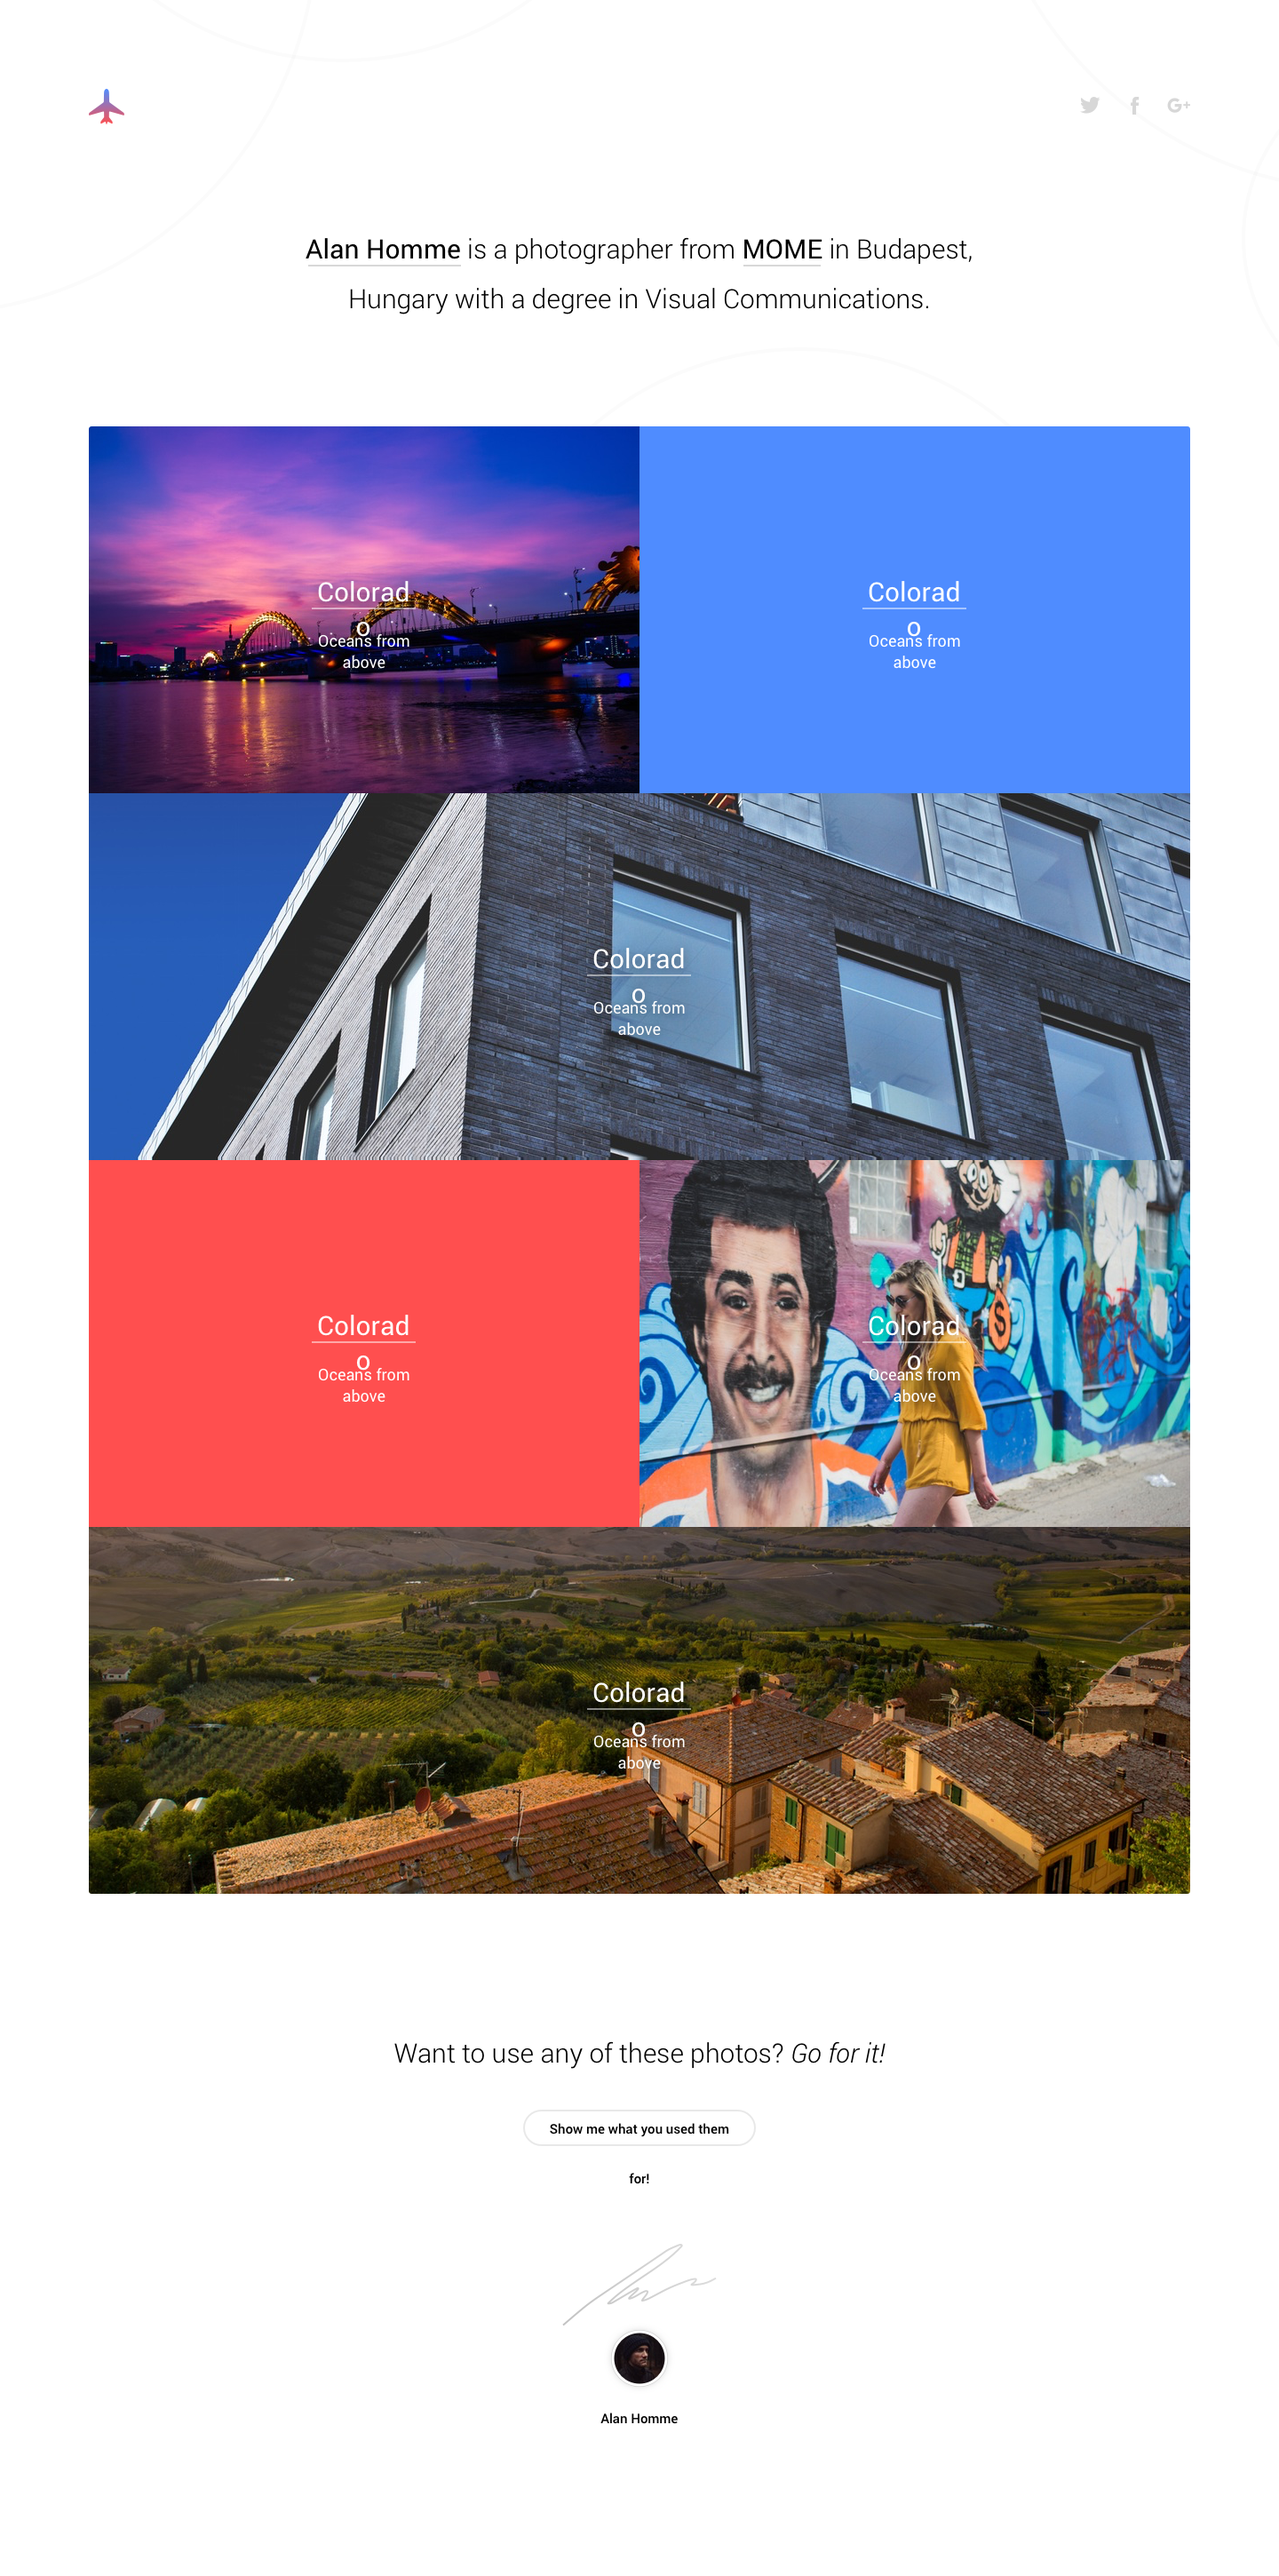
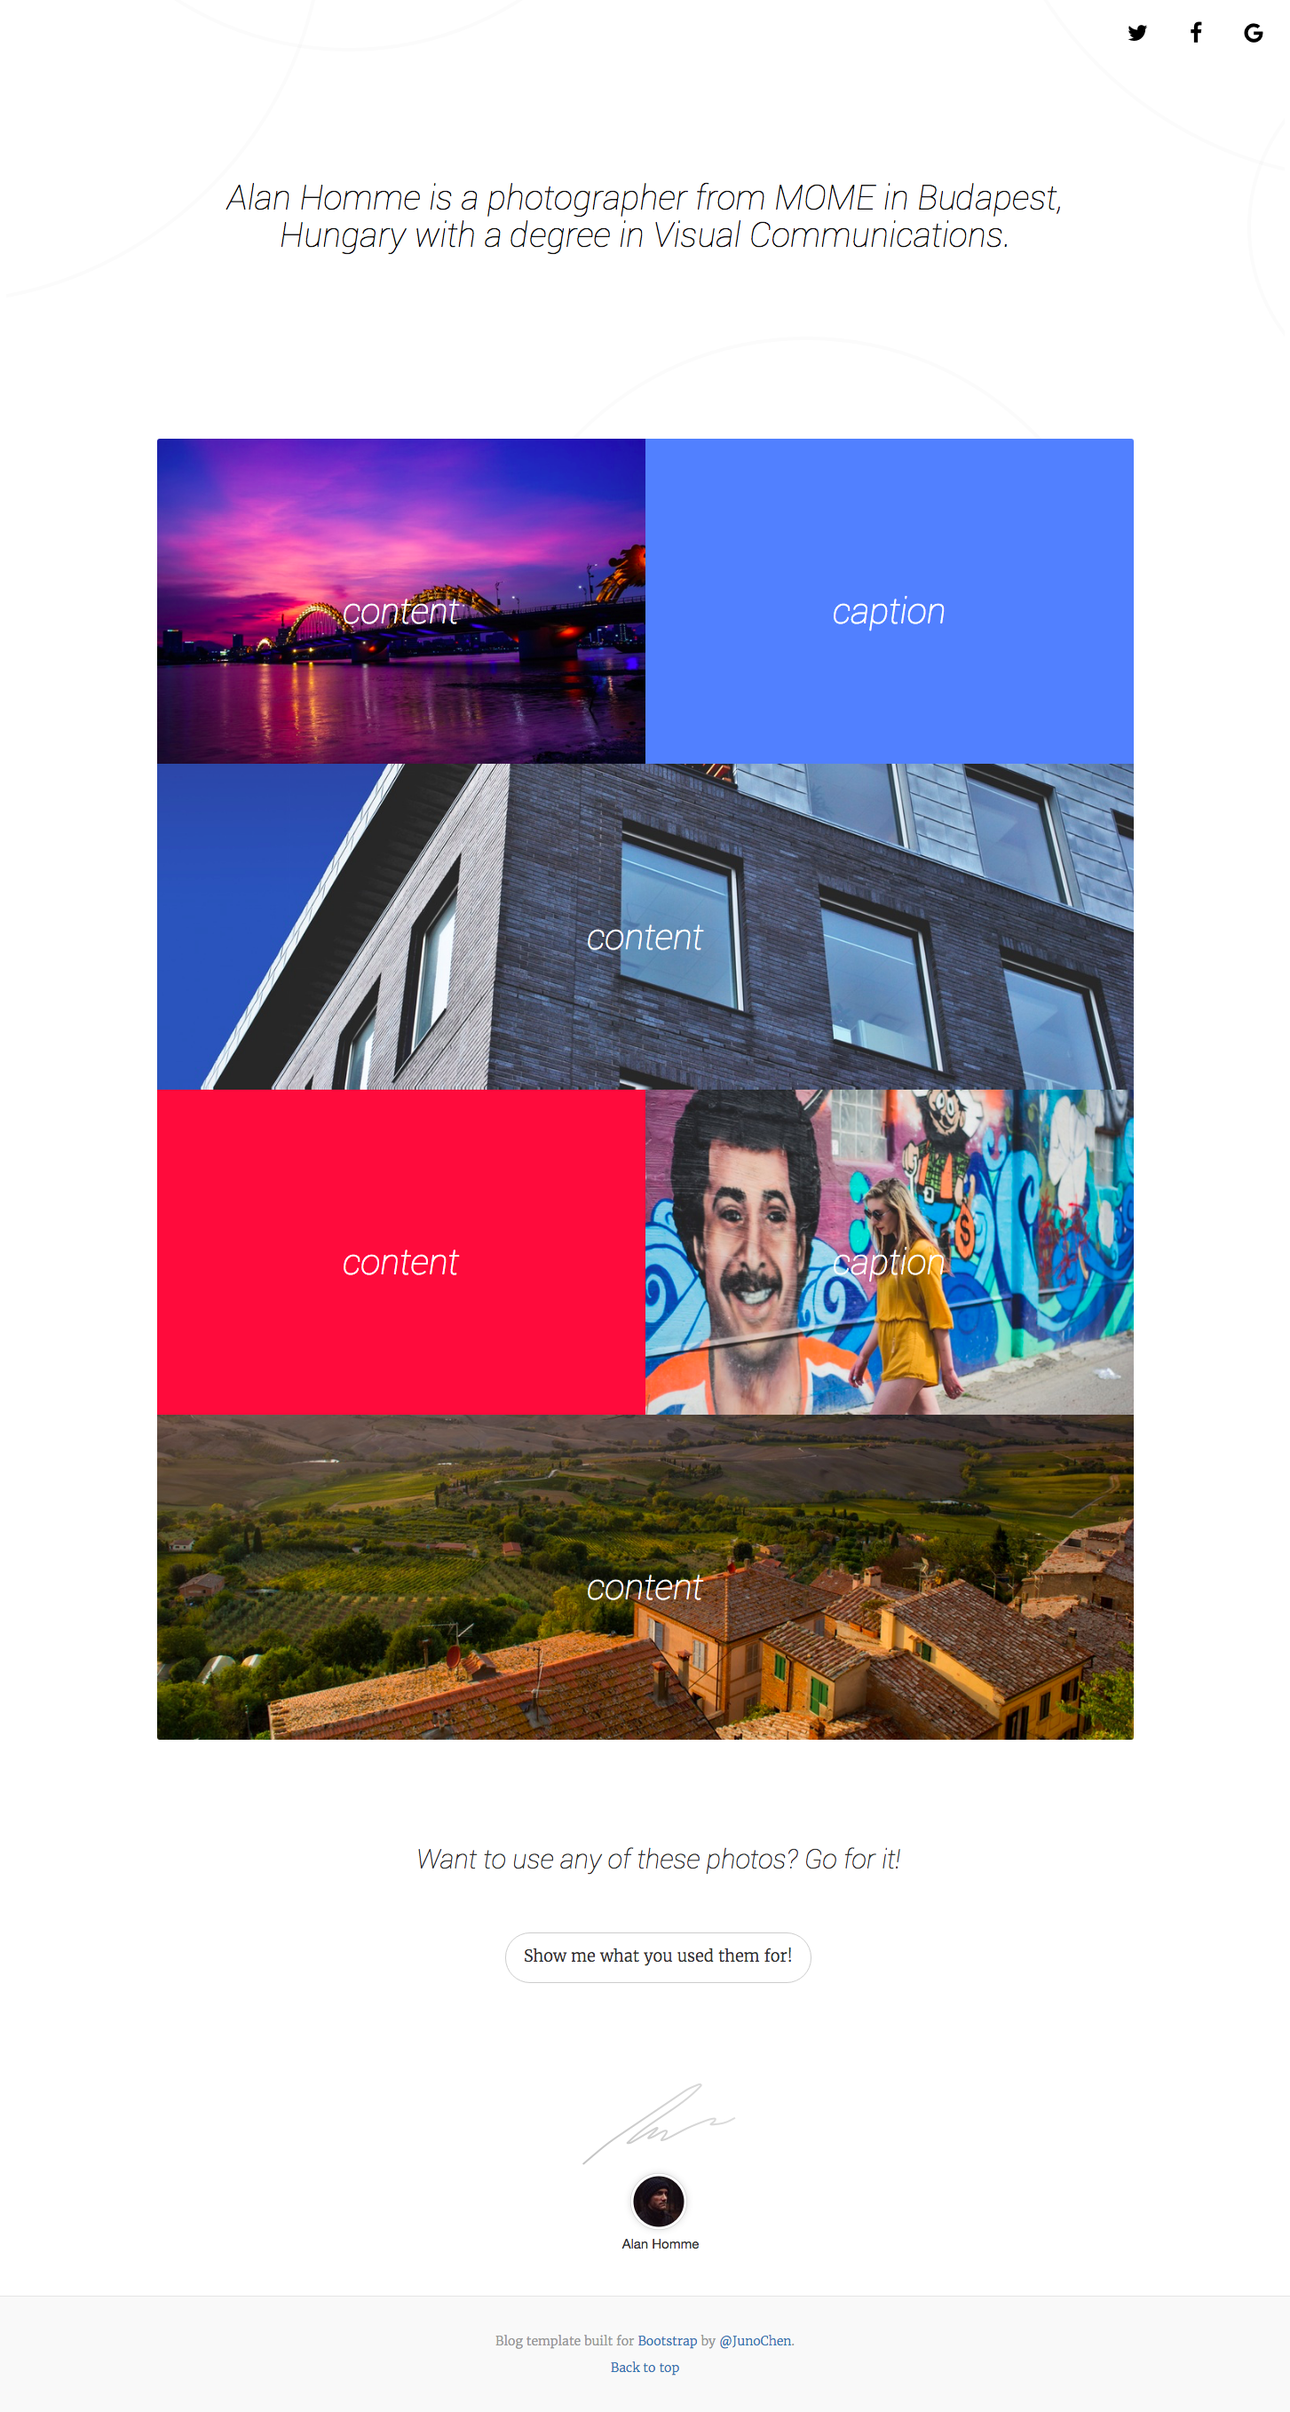
sample png

diff --git a/docs/examples/blog-theme/main.html b/docs/examples/blog-theme/main.html
@@ -171,6 +171,14 @@
     </div><!-- /.container -->
 
 
+    <footer class="blog-footer">
+      <p>Blog template built for <a href="http://getbootstrap.com">Bootstrap</a> by <a href="https://github.com/railsgem">@JunoChen</a>.</p>
+      <p>
+        <a href="#">Back to top</a>
+      </p>
+    </footer>
+
+
     <!-- Bootstrap core JavaScript
     ================================================== -->
     <!-- Placed at the end of the document so the pages load faster -->

diff --git a/docs/examples/blog-theme/simple.html b/docs/examples/blog-theme/simple.html
@@ -135,7 +135,7 @@
     </div><!-- /.container -->
 
     <footer class="blog-footer">
-      <p>Blog template built for <a href="http://getbootstrap.com">Bootstrap</a> by <a href="https://twitter.com/mdo">@mdo</a>.</p>
+      <p>Blog template built for <a href="http://getbootstrap.com">Bootstrap</a> by <a href="https://github.com/railsgem">@JunoChen</a>.</p>
       <p>
         <a href="#">Back to top</a>
       </p>

diff --git a/docs/examples/blog-theme/main.css b/docs/examples/blog-theme/main.css
@@ -270,5 +270,5 @@ header .intro-text {
 	margin-bottom: 50px;
 }
 footer {
-    margin: 50px 0;
+    margin: 0px 0;
 }
